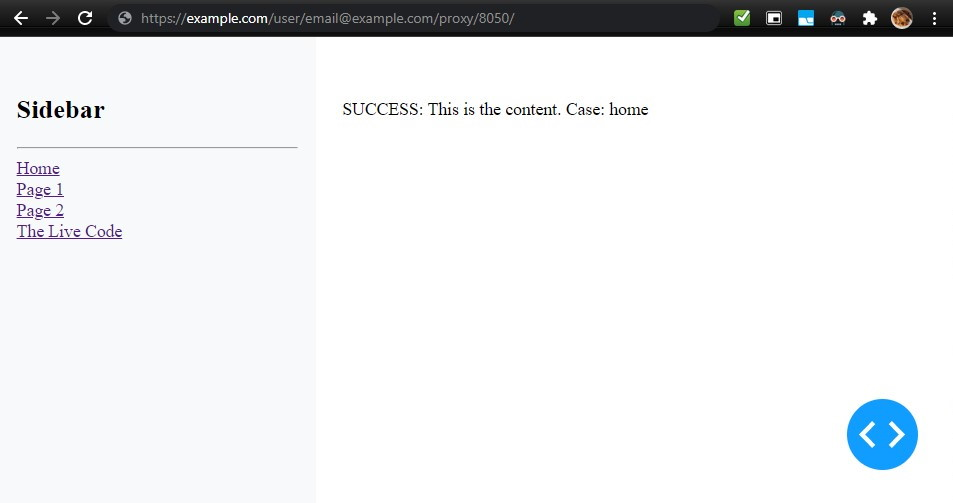
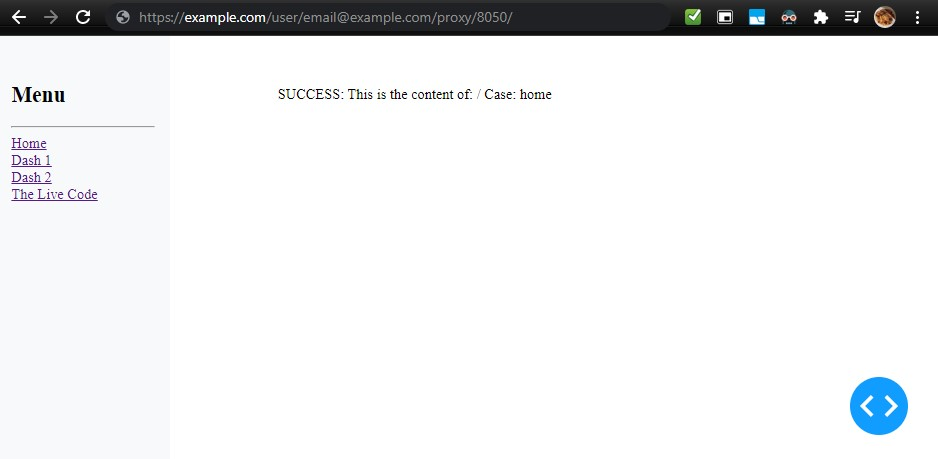
clearer on how to attach dashboards

diff --git a/main.py b/main.py
@@ -52,11 +52,11 @@ app.layout = html.Div([dcc.Location(id="url"), sidebar, content])
 def render_dash_content(pathname):
     print(f"Pathname: {pathname}") # I found this really helped me debug
     if pathname == f"{url_prefix}":
-        return html.P(f"SUCCESS: This is the content of: {pathname} Case: home")
+        return html.P(f"SUCCESS: This is the content of: {pathname} Case: home") # Replace this with your homepage dashboard
     elif pathname == f"{url_prefix}dash1":
-        return html.P(f"SUCCESS: This is the content of: {pathname} Case: dash1")
+        return html.P(f"SUCCESS: This is the content of: {pathname} Case: dash1") # Replace this with your first dashboard
     elif pathname == f"{url_prefix}dash2":
-        return html.P(f"SUCCESS: This is the content of: {pathname} Case: dash2")
+        return html.P(f"SUCCESS: This is the content of: {pathname} Case: dash2") # Replace this with your second dashboard
     elif pathname == f"{url_prefix}code":
         f = open('./main.py', 'r')
         return html.Pre(f.read())

diff --git a/README.md b/README.md
@@ -7,6 +7,17 @@ This multipage dash app will run inside JupyterHub and allow external viewing by
 ![BAsic App Runnung In Browser](./docs/basic-app-running.jpg)
 
 
+### Attaching Dashboards
+
+This example comes with placeholder text instead of 3 actual dashboards.
+
+_The dashboards are not the purpose of this, this is just a framework demonstrating how to host multiple dashboards with a menu to select between them._
+
+To attach your dashboards you can put them here:
+
+![attach-dashboard](docs/where-to-attach-dashboard.jpg)
+
+
 ### Environment Setup
 
 Bash:
